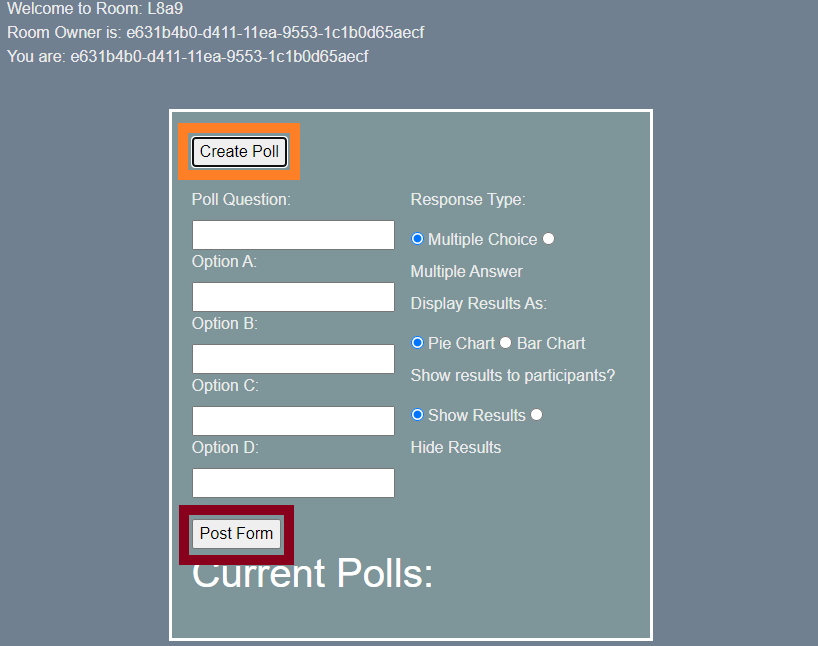
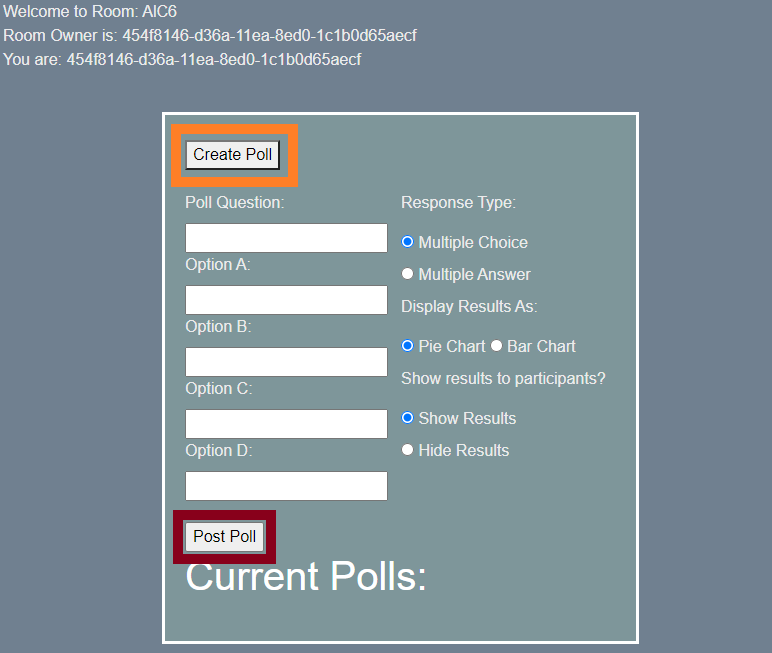
Moved the inputs to be children of the their labels. Updated the screenshot of the pollRoom to match this change.

Changed region(s): [[0.1865, 0.1548, 0.8394, 1.0], [0.0, 0.0, 0.5596, 0.1238]]

diff --git a/templates/pollRoom.html b/templates/pollRoom.html
@@ -61,20 +61,17 @@
                 </div>
                 <div class="make-poll">
                     <p>Response Type:</p>
-                    <input type="radio" id="mc" name="responseType" value="mc" checked>
-                    <label for="mc">Multiple Choice</label>
-                    <input type="radio" id="ma" name="responseType" value="ma">
-                    <label for="ma">Multiple Answer</label><br>
+                    <label for="mc"><input type="radio" id="mc" name="responseType" value="mc" checked> Multiple Choice</label>
+                    <label for="ma"><input type="radio" id="ma" name="responseType" value="ma"> Multiple Answer</label>
+
                     <p>Display Results As:</p>
-                    <input type="radio" id="pie" name="pollType" value="Pie" checked>
-                    <label for="pie">Pie Chart</label>
-                    <input type="radio" id="column" name="pollType" value="Column">
-                    <label for="column">Bar Chart</label>
+                    <label for="pie"><input type="radio" id="pie" name="pollType" value="Pie" checked> Pie Chart</label>
+                    <label for="column"><input type="radio" id="column" name="pollType" value="Column"> Bar Chart</label>
+
                     <p>Show results to participants?</p>
-                    <input type="radio" id="show" name="showResults" value="true" checked>
-                    <label for="show">Show Results</label>
-                    <input type="radio" id="hide" name="showResults" value="false">
-                    <label for="hide">Hide Results</label>
+
+                    <label for="show"><input type="radio" id="show" name="showResults" value="true" checked> Show Results</label>
+                    <label for="hide"><input type="radio" id="hide" name="showResults" value="false"> Hide Results</label>
                 </div>
                 <input type="submit" value="Post Poll">
             </form>
